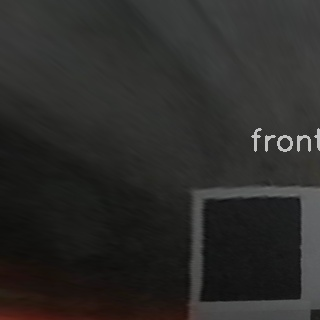
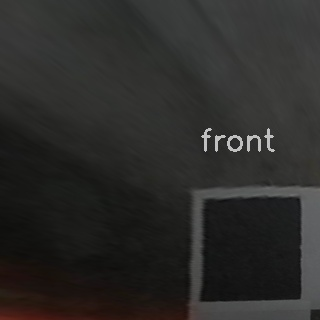
datamaker for overlap_version

Changed region(s): [[0.625, 0.4062, 1.0, 0.5]]

diff --git a/dataset/avm/overlap.py b/dataset/avm/overlap.py
@@ -112,8 +112,8 @@ def unit_test_overlap():
     lf_front = front_ori[216 - 200 : 316 + 20, 309 - 200 : 409 + 20]
     lf_left = cv2.rotate(lf_left, cv2.ROTATE_90_COUNTERCLOCKWISE)
     txt_info = (cv2.FONT_HERSHEY_SIMPLEX, 1, (192, 192, 192), 2)
-    cv2.putText(lf_left, 'left', (250, 200), *txt_info)
-    cv2.putText(lf_front, 'front', (250, 150), *txt_info)
+    cv2.putText(lf_left, 'left', (200, 200), *txt_info)
+    cv2.putText(lf_front, 'front', (200, 150), *txt_info)
     cv2.imwrite(f'{sv_dir}/lf_f.jpg', lf_front)
     cv2.imwrite(f'{sv_dir}/lf_l.jpg', lf_left)
     create_gif([lf_left, lf_front], f'{sv_dir}/lf.gif')
